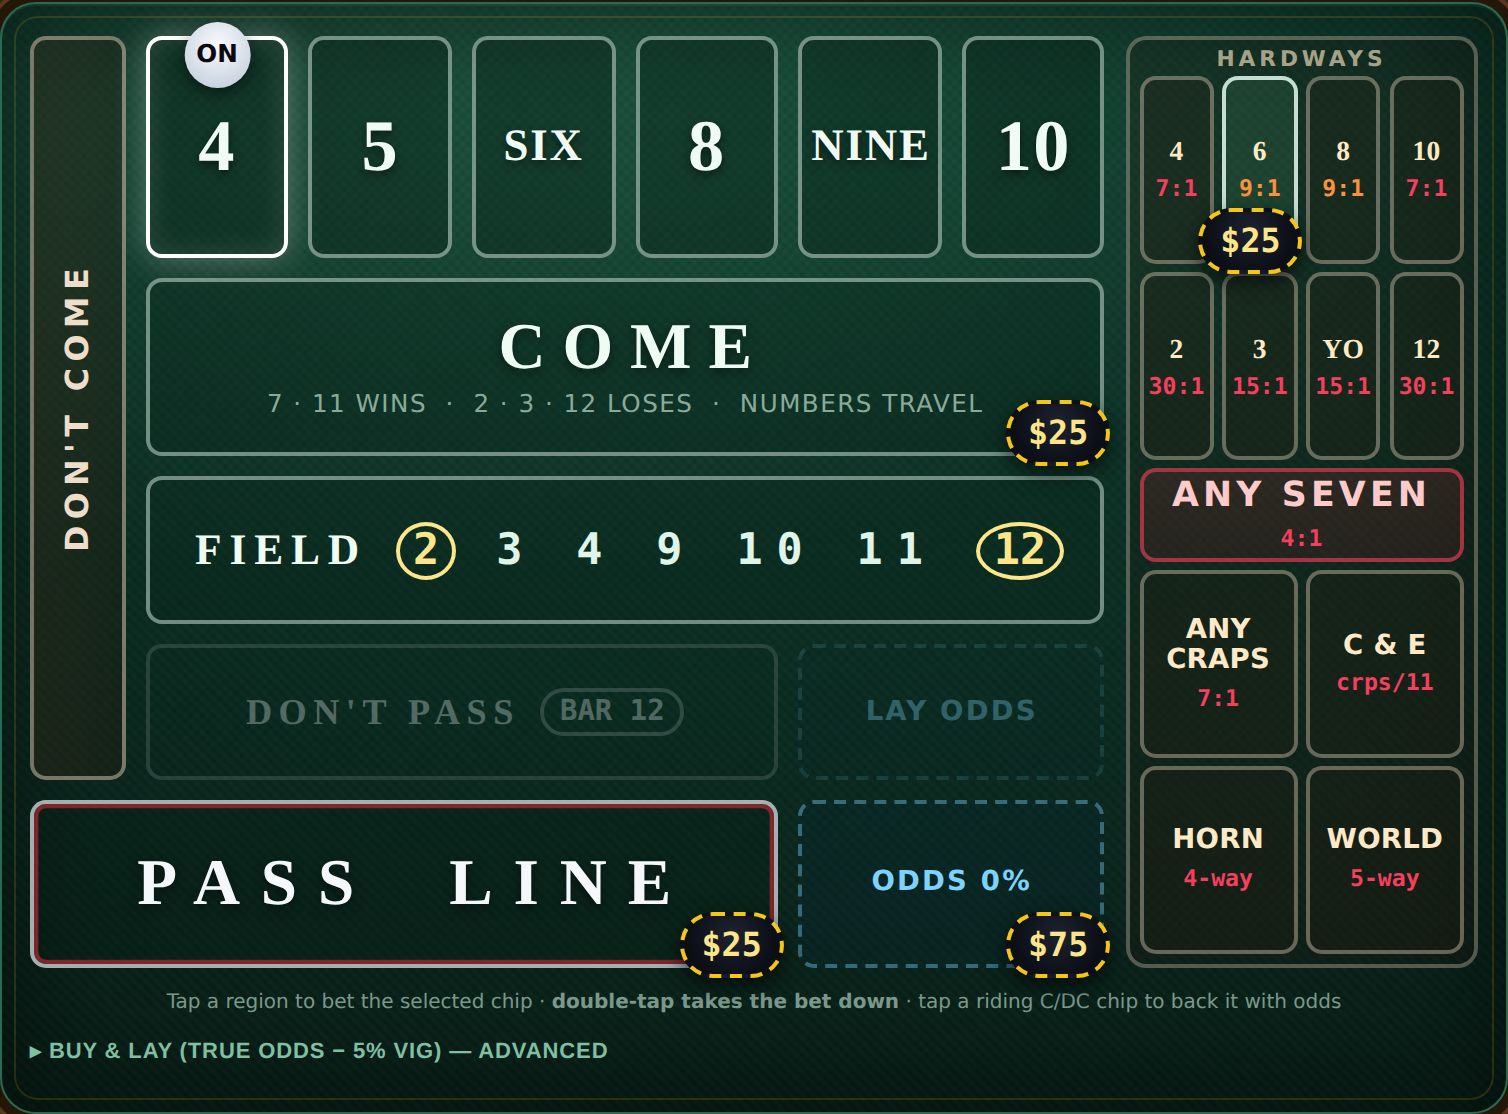
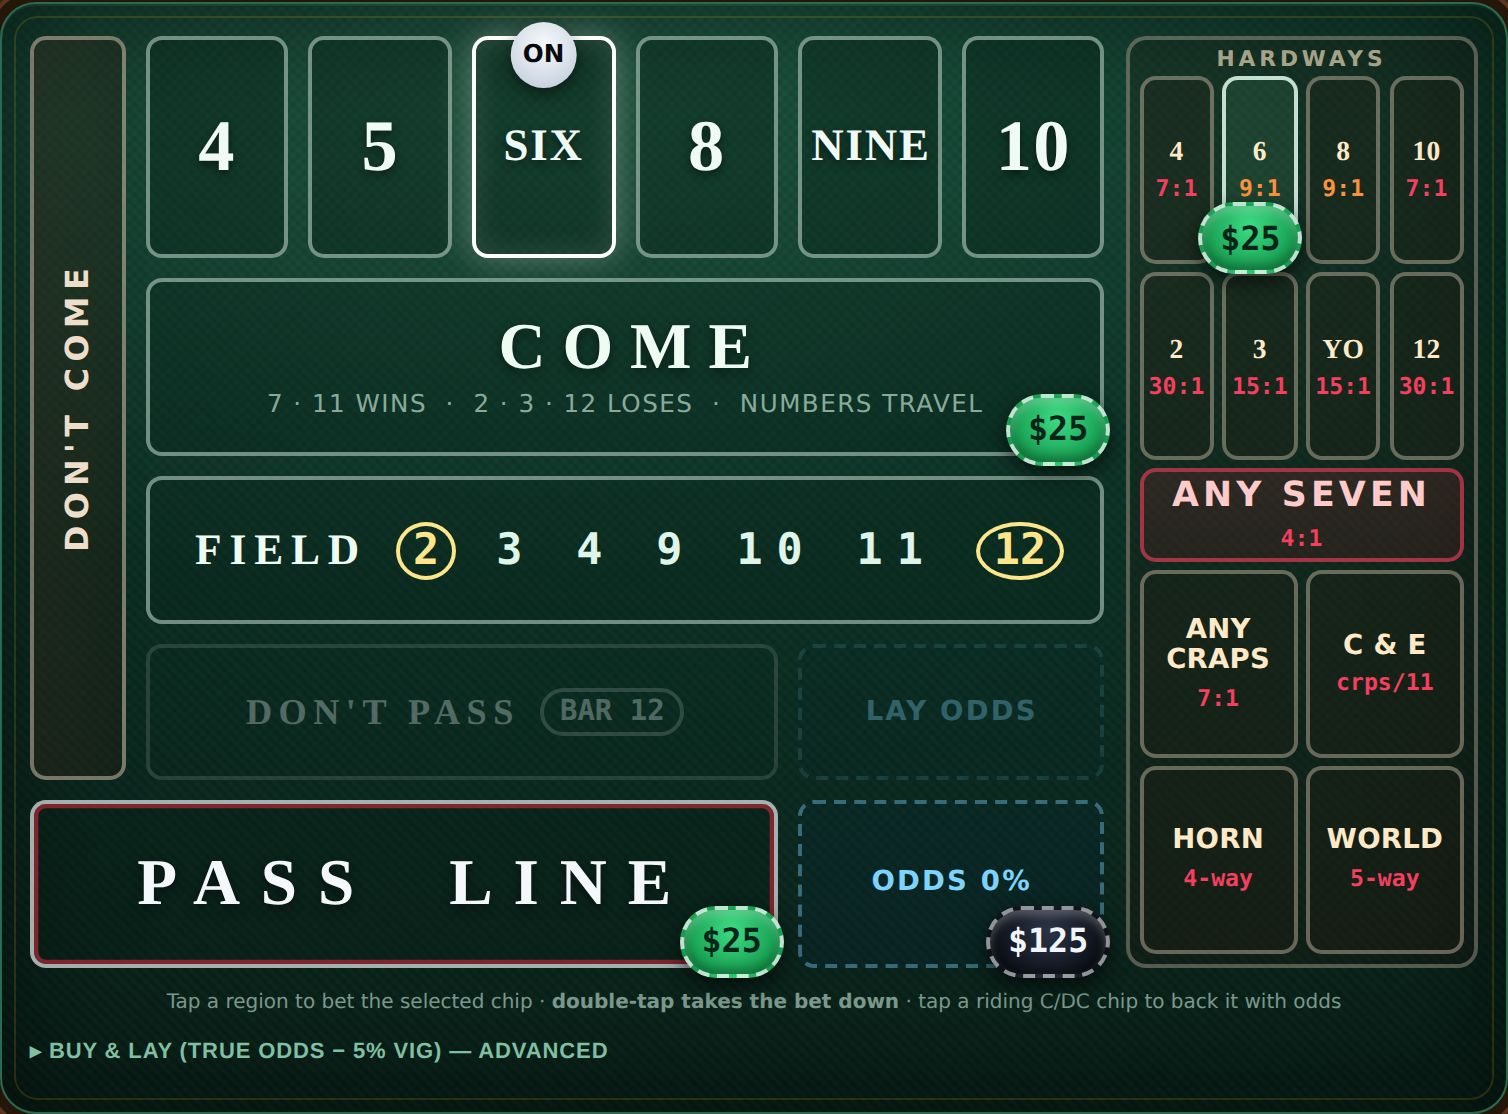
Colour bet chips by amount; shrink the top tray; make the genie combo-aware
- On-felt bet markers are now real casino chips tinted by their amount —
  white $1, red $5, green $25, black $100 (chipTier in util.js), matching
  the tray they came from. A $50 bet reads green, $10 red, etc.
- The top chip tray was overflowing its boundary: chips shrunk 48→42px and
  the selected-chip gold ring tightened (offset 3→1px, lift 3→2px) so it
  stays inside the bar.
- The coach genie now reads the *shape* of the board and surfaces hedge /
  combo thinking instead of only per-bet advice:
    · Iron Cross (Place 5/6/8 + Field) — "wins on everything but the 7,"
      with the honest catch and the Come-bet counter.
    · High seven-out exposure — when several numbers are working with no
      Come in the box, it recommends the Come bet as the one add that
      *wins* on the seven-out, framed as a real variance hedge (not a
      system, not +EV).
    · Field-inside-a-spread combo read, place-only coverage handling, and
      textbook 3-Point Molly recognition.
  All exposure figures come from the real 36-outcome engine.

Engine untouched (verify green); chip colours + combo insights screenshot-
and unit-tested.

Claude-Session: https://claude.ai/code/session_01FVZDBswHoeFU2eVD2cUj1t

diff --git a/src/coach.js b/src/coach.js
@@ -32,6 +32,7 @@ export function getAdvice(game, rules) {
   const comeRiding = NUMBERS.filter((n) => b.comePts[n] > 0);
   const comeNoOdds = comeRiding.filter((n) => b.comeOdds[n] < b.comePts[n] * maxOddsMultiple(n, rules.oddsMode));
   const numbersWorking = (b.passline > 0 ? 1 : 0) + comeRiding.length + (b.come > 0 ? 1 : 0);
+  const placeNums = NUMBERS.filter((n) => b.place[n] > 0 || b.buy[n] > 0);
 
   if (game.phase === "comeout") {
     if (b.passline === 0 && b.dontpass === 0 && comeRiding.length === 0) {
@@ -57,9 +58,25 @@ export function getAdvice(game, rules) {
       insights.push(ok(`Three numbers working with odds — that's as good as craps gets. The correct move now is <b>nothing</b>: just roll.`));
     } else if (b.dontpass > 0 || NUMBERS.some((n) => b.dcPts[n] > 0)) {
       insights.push(ok(`Don't side is set — you're the favourite from here. A <b>Don't Come</b> spreads the same math to a second number, or simply roll.`));
+    } else if (placeNums.length > 0) {
+      insights.push(ok(`Your Place number${placeNums.length > 1 ? "s are" : " is"} working (${placeNums.join(", ")}). They pay when their number hits — but note that only a <b>Come bet</b> also wins on the 7 that clears them. See the hedge idea below.`));
     } else {
       insights.push(doIt(`Point is on and nothing's working. No need to wait for a new come-out — the <b>Come box</b> is the same Pass-Line play, live right now.`));
     }
+  }
+
+  // ---- combos & hedges: read the shape of the whole board ----
+  const workingNums = new Set(placeNums.concat(comeRiding));
+  if (game.phase === "point" && b.passline > 0) workingNums.add(pt);
+  const coverage = workingNums.size;
+  const ironCross = b.place[5] > 0 && b.place[6] > 0 && b.place[8] > 0 && b.field > 0;
+
+  if (ironCross) {
+    insights.push(doIt(`🧩 <b>Iron Cross</b> spotted — Place 5/6/8 + Field. You now collect on <b>every roll except the 7</b>, which feels unbeatable. The catch: the 7 is the likeliest roll (6 ways in 36) and it sweeps <b>all $${sevenLoss}</b> at once — blended cost ~2.3%. If you're running it, a <b>Come bet</b> is the honest counter: it's the one wager that <i>pays you</i> on that exact 7.`));
+  } else if (game.phase === "point" && coverage >= 3 && b.come === 0 && sevenLoss > 0) {
+    insights.push(doIt(`🛡 <b>Hedge idea:</b> you've got <b>${coverage} numbers</b> working — one 7 wipes out all <b>$${sevenLoss}</b> at once, and the 7 is the single most likely roll. The one add that <i>wins</i> on that seven-out is a <b>Come bet</b>. It won't beat the house edge, but it turns your worst roll into a partial score — a genuine variance hedge, not a system.`));
+  } else if (game.phase === "point" && coverage >= 2 && b.field > 0 && !ironCross) {
+    insights.push(ok(`🧩 <b>Combo read:</b> the Field pays 2·3·4·9·10·11·12 and your numbers cover the middle — together you collect on nearly everything but the 7. On its own the Field is a leak (${rules.fieldTriple ? "2.78%" : "5.56%"}), but inside this spread it's plugging the outside-number gaps. Just know what it all shares: the 7 takes the whole board.`));
   }
 
   // ---- read the leaks currently on the table ----
@@ -84,8 +101,10 @@ export function getAdvice(game, rules) {
     insights.push(bad(`You're on <b>both</b> the Pass and Don't Pass (the "doey-don't"). They mostly cancel, so you're paying two house edges for almost no action — the only thing that resolves is the rare 12 push.`));
   }
 
-  // ---- quiet praise for the good number bets ----
-  if (b.place[6] > 0 || b.place[8] > 0) {
+  // ---- quiet praise for the good shapes ----
+  if (b.passline > 0 && b.passodds > 0 && comeRiding.length >= 2 && comeRiding.every((n) => b.comeOdds[n] > 0)) {
+    insights.push(ok(`⭐ Textbook <b>3-Point Molly</b> — line + two come numbers, all backed with odds. This is the lowest-edge way to keep three numbers working. Nothing to add; ride it.`));
+  } else if (b.place[6] > 0 || b.place[8] > 0) {
     insights.push(ok(`<b>Place 6 & 8</b> (1.52%) are the best number bets outside the line — bet them in $6 units so the 7:6 payout lands clean.`));
   }
 

diff --git a/src/styles.css b/src/styles.css
@@ -179,9 +179,9 @@ body {
 .rollpip.out .rt { color: #fecaca; }
 
 /* chips — edge stripes + inlay ring like the real thing */
-.chipbar { display: flex; gap: 10px; align-items: center; flex-wrap: wrap; margin-bottom: 10px; }
+.chipbar { display: flex; gap: 9px; align-items: center; flex-wrap: wrap; margin-bottom: 10px; padding-top: 4px; }
 .chip {
-  position: relative; width: 48px; height: 48px; border-radius: 50%;
+  position: relative; width: 42px; height: 42px; border-radius: 50%;
   cursor: pointer; font-weight: 800; font-size: 12px;
   display: flex; align-items: center; justify-content: center; flex-shrink: 0;
   border: none;
@@ -199,7 +199,7 @@ body {
   content: ""; position: absolute; inset: 7px; border-radius: 50%;
   border: 1.5px dashed rgba(0,0,0,.3); pointer-events: none;
 }
-.chip.on { outline: 3px solid var(--gold); outline-offset: 3px; transform: translateY(-3px); }
+.chip.on { outline: 2px solid var(--gold); outline-offset: 1px; transform: translateY(-2px); }
 
 /* buttons */
 .btn {
@@ -522,19 +522,23 @@ a { color: #22d3ee; }
 .zone.lock { cursor: default; }
 .zone.lock:hover { background: transparent; border-color: rgba(216, 240, 228, .5); }
 
-/* the bet riding a region */
+/* the bet riding a region — a casino chip coloured by its amount */
 .mchip {
   position: absolute; right: -0.6cqw; bottom: -1cqw; z-index: 4;
-  min-width: 5.4cqw; height: 4.6cqw; padding: 0 1.2cqw;
+  min-width: 5.6cqw; height: 5cqw; padding: 0 1.2cqw;
   border-radius: 999px;
-  background: radial-gradient(circle at 50% 32%, #1d2230, #0b0e15 72%);
-  border: 0.4cqw dashed var(--gold); color: #fde68a;
   display: flex; align-items: center; justify-content: center;
   font-size: 2.3cqw; font-weight: 800;
-  box-shadow: 0 0.5cqw 1.4cqw rgba(0,0,0,.6);
+  box-shadow: 0 0.5cqw 1.4cqw rgba(0,0,0,.6), inset 0 0.4cqw 0.6cqw rgba(255,255,255,.25), inset 0 -0.4cqw 0.7cqw rgba(0,0,0,.3);
   animation: chipdrop .16s ease-out;
   pointer-events: none;
+  border: 0.4cqw dashed rgba(255,255,255,.6);   /* edge spots, tinted per chip below */
 }
+/* tray-matched colours: white $1 · red $5 · green $25 · black $100 */
+.mchip.t-white { background: radial-gradient(circle at 50% 32%, #f4f4f6, #d4d6dd 74%); color: #0a0b0f; border-color: rgba(0,0,0,.32); }
+.mchip.t-red   { background: radial-gradient(circle at 50% 32%, #ff5a6e, #d51d33 74%); color: #fff; border-color: rgba(255,255,255,.75); }
+.mchip.t-green { background: radial-gradient(circle at 50% 32%, #3ddc84, #159c4f 74%); color: #06251a; border-color: rgba(255,255,255,.72); }
+.mchip.t-black { background: radial-gradient(circle at 50% 32%, #2b3346, #0d1119 74%); color: #f1f5f9; border-color: rgba(255,255,255,.55); }
 .numbox .mchip.place { right: auto; left: 50%; transform: translateX(-50%); bottom: -1.1cqw; }
 
 /* number / point boxes across the top */

diff --git a/src/components/Table.jsx b/src/components/Table.jsx
@@ -1,6 +1,6 @@
 import { useState, useRef, memo } from "react";
 import { NUMBERS } from "../engine.js";
-import { edgeColor, maxOddsMultiple } from "../util.js";
+import { edgeColor, maxOddsMultiple, chipTier } from "../util.js";
 import { PLACE_EDGE, buyEdge, layEdge, fieldEdge } from "../bets.js";
 
 // The betting mat — one full side of a real craps table, drawn as tappable
@@ -60,7 +60,7 @@ function Table({ bets, phase, point, working, rules, onPlace, onClear, canPlace,
         onClick={path ? () => tap(path) : undefined}
         onContextMenu={path ? (e) => { e.preventDefault(); onClear(path); } : undefined}>
         {children}
-        {a > 0 && <div className="mchip mono">${a}</div>}
+        {a > 0 && <div className={"mchip mono t-" + chipTier(a)}>${a}</div>}
       </div>
     );
   };
@@ -87,7 +87,7 @@ function Table({ bets, phase, point, working, rules, onPlace, onClear, canPlace,
             C {come}{bets.comeOdds[n] > 0 ? `+${bets.comeOdds[n]}` : ""}
           </button>
         )}
-        {bets.place[n] > 0 && <div className="mchip mono place">${bets.place[n]}</div>}
+        {bets.place[n] > 0 && <div className={"mchip mono place t-" + chipTier(bets.place[n])}>${bets.place[n]}</div>}
       </div>
     );
   };

diff --git a/src/util.js b/src/util.js
@@ -10,6 +10,16 @@ export function edgeColor(e) {
 export const usd = (n) =>
   "$" + (Math.round(n * 100) / 100).toLocaleString(undefined, { maximumFractionDigits: 2 });
 
+// Casino chip colour by amount — the on-felt bet markers are tinted like the
+// tray they came from: white $1s, red $5s, green $25s, black $100s. A total
+// takes the colour of its highest fitting denomination (e.g. $50 → green).
+export function chipTier(amount) {
+  if (amount >= 100) return "black";
+  if (amount >= 25) return "green";
+  if (amount >= 5) return "red";
+  return "white";
+}
+
 // Table-odds variants. "345" (3-4-5x) is the modern strip standard; the flat
 // multiples (1x/2x/5x/10x/20x/100x) apply uniformly to every point number.
 export const ODDS_MODES = [
